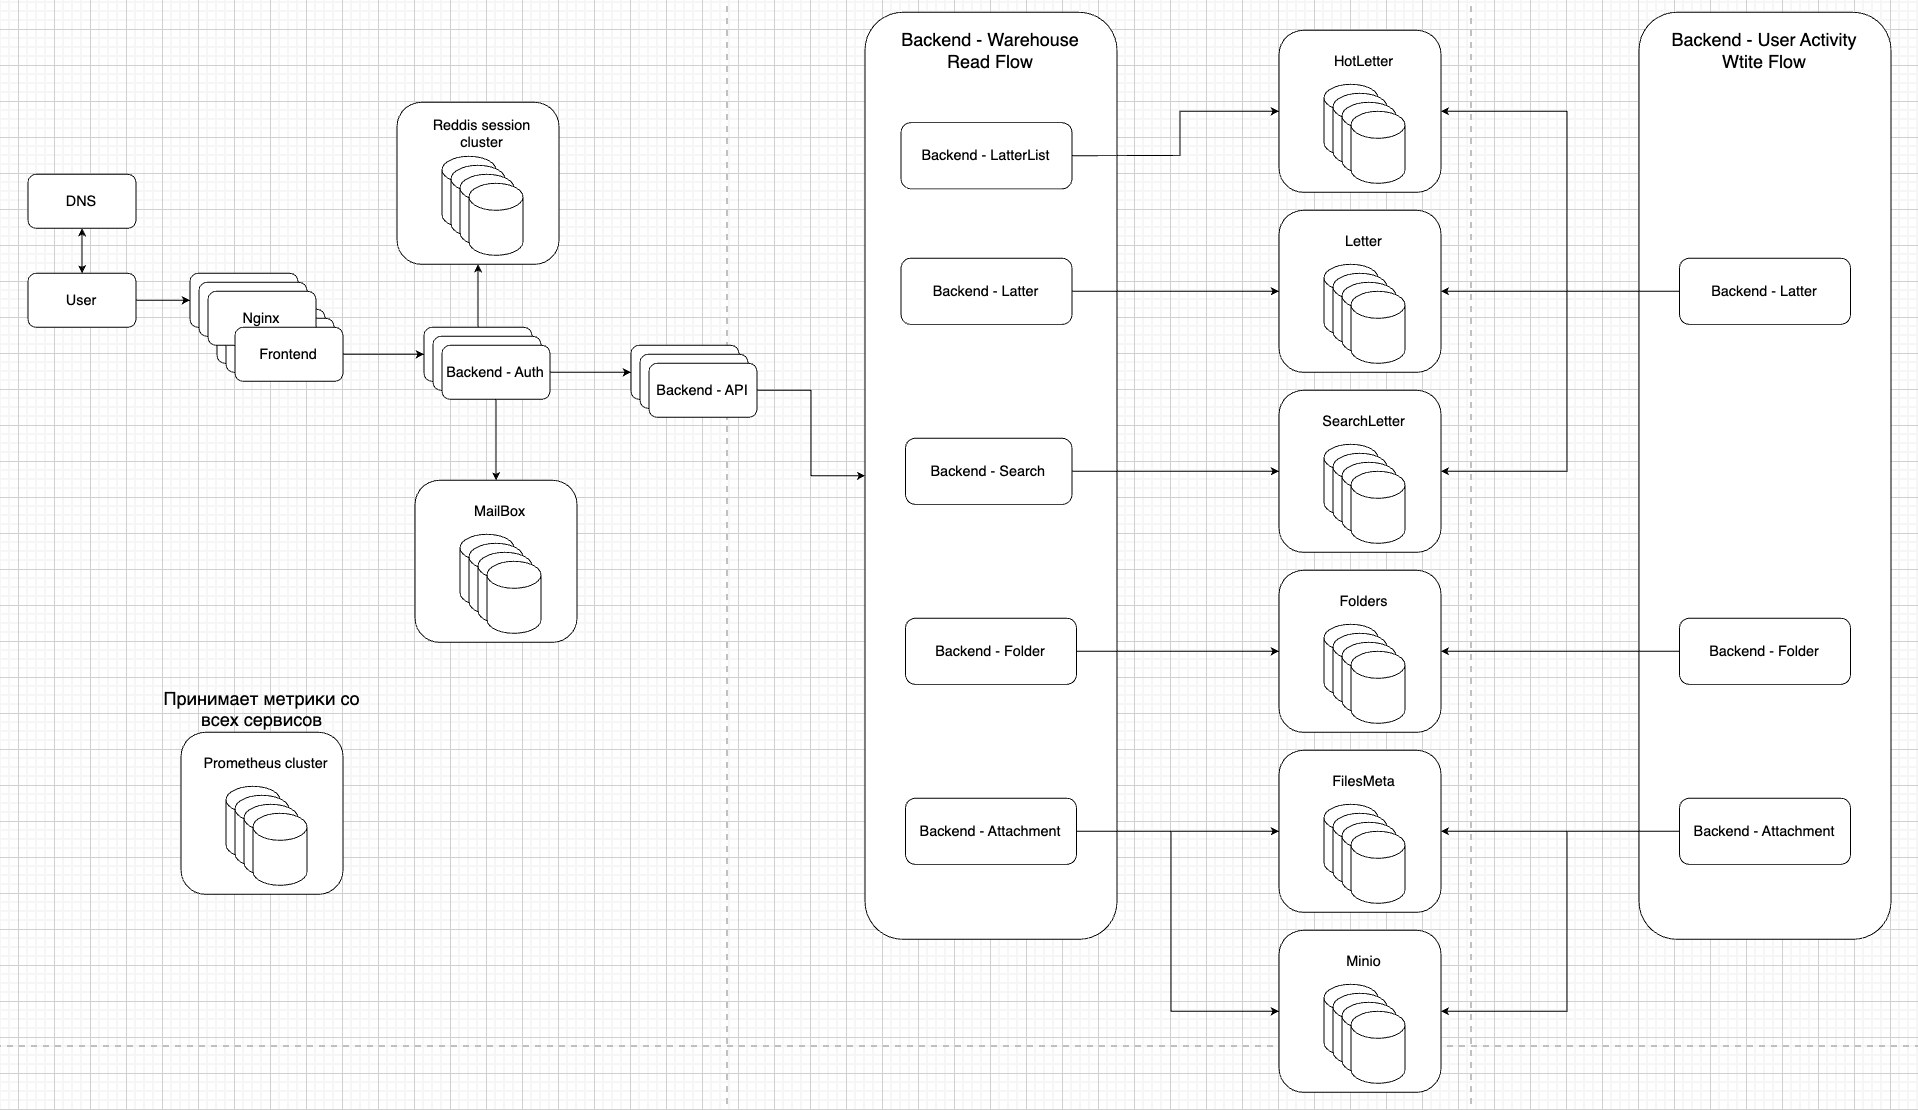
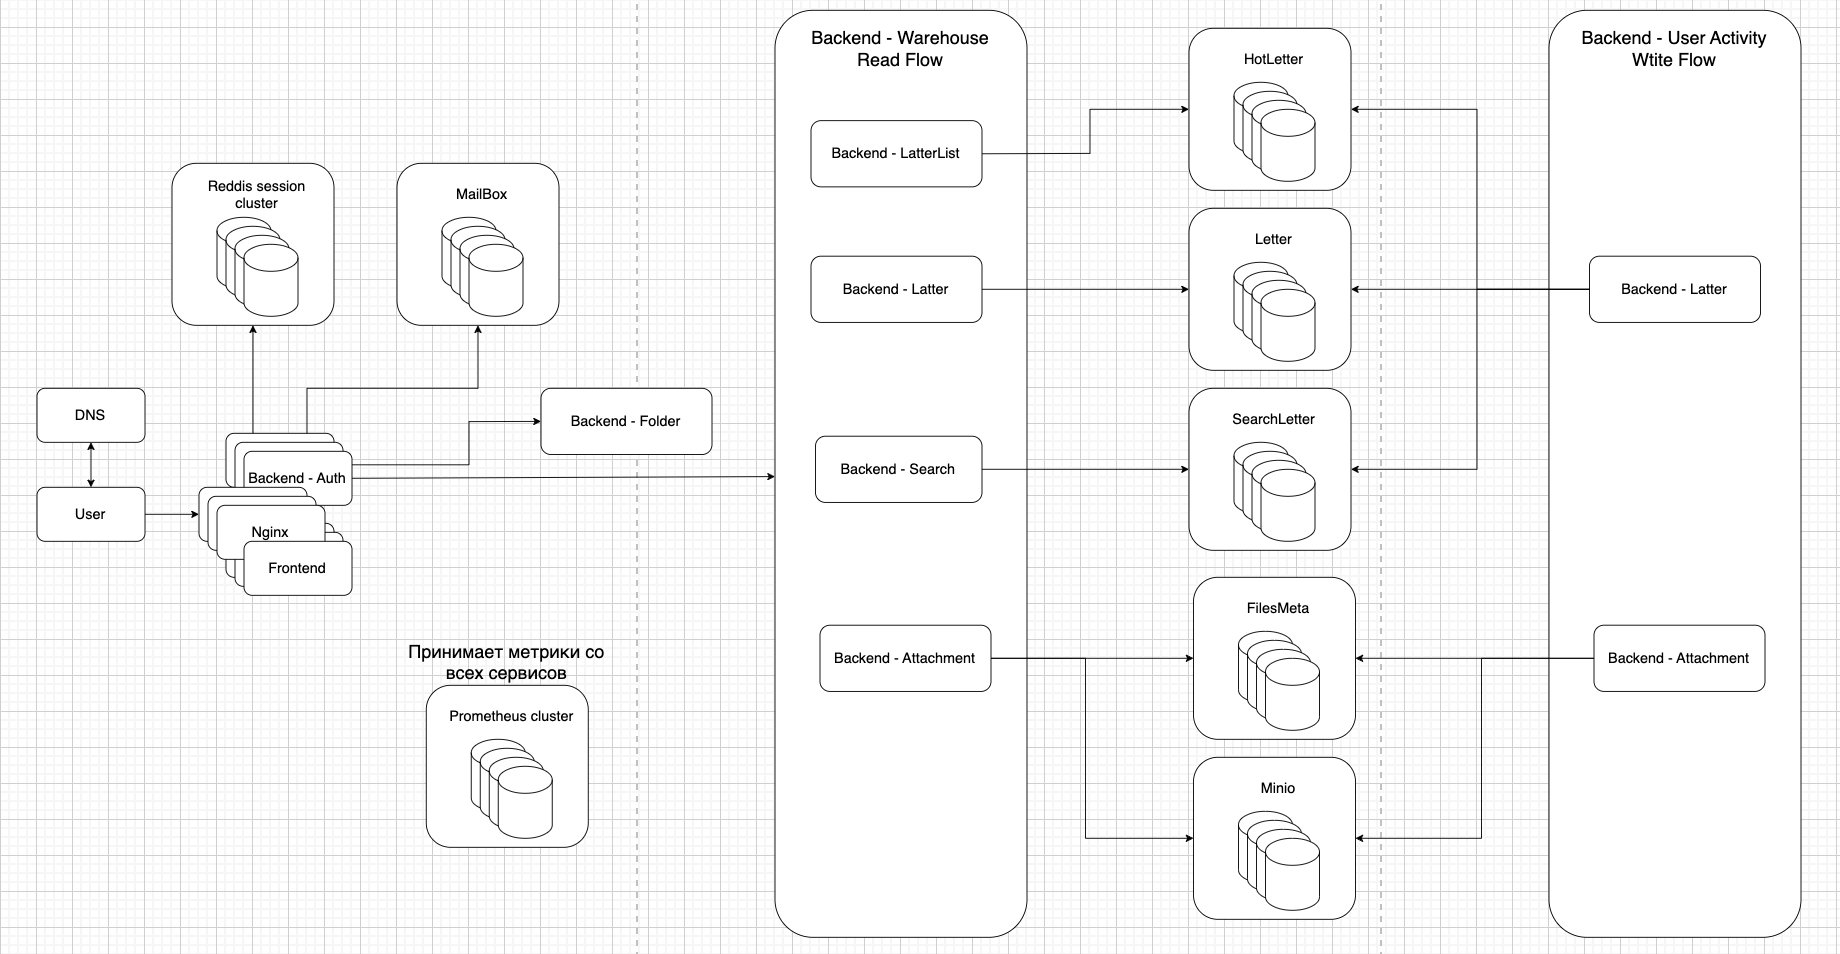
fix: fix scheme

diff --git a/README.md b/README.md
@@ -264,11 +264,9 @@ Sessions | Сессии пользователей | Reddis
 
 ![image](project_scheme.png)
 
-// TODO: уточнить раскладку статики фронтенда, как доезжает (есть 100 фронтов, как контролировать, как деплоить и все такое)
-// TODO: убрать api, его роль возмет на себя Auth, иначе слишком много точек отказа и копирований данных
-// TODO: возможно и авторизацию в nginx (nginx умеет проверять авторизацию)
-
 ## 9. Обеспечение надежности <a name="9"></a>
+
+## База данных
 
 | Решение | Обоснование |
 |-|-|
@@ -279,8 +277,11 @@ Sessions | Сессии пользователей | Reddis
 | Реплики серверов | Для обеспечения надежности и отказоустойчивости |
 | Prometheus | Принимает метрики со всех сервисов для быстрого обнаружения проблем и установления причины их возникновения |
 
-// TODO: описать зону доступности (релиабилити зоны), распределние серверов так, чтобы было отказоустойчиво (несколько дц)
-// TODO: распределение по этим зонам всех софтов - бд, сервера приложений, балансировщики
+## Дата-центры
+
+*  Нескольких ДЦ в Москве, в случае отказа одного, трафик перейдёт на другой. 
+* Для сбора и просмотра метрик внутри и между ДЦ будет использоваться Prometheus. Если метрики не будут приходить в течении 10 секунд, то ближайший ДЦ поменяет настройки ДНС.
+* 2 входных роутера, а также реплики всех критических компонентов в системе.
 
 ## 10. Расчет ресурсов <a name="10"></a>
 
